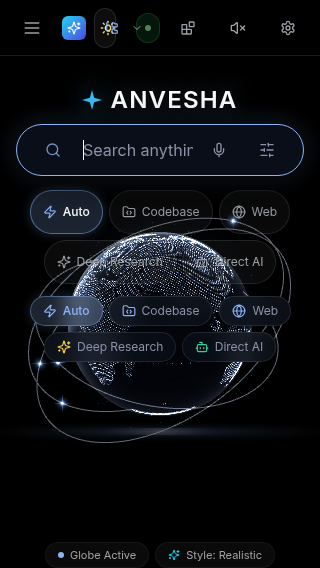
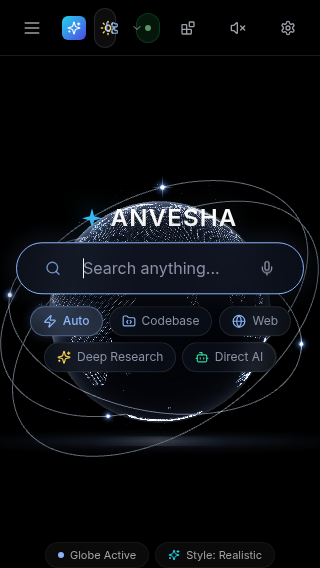
feat(mobile-composition): preserve desktop visual composition, alignment, hierarchy, and concentric globe relationship on mobile

diff --git a/frontend/src/components/SearchBar.tsx b/frontend/src/components/SearchBar.tsx
@@ -1,5 +1,5 @@
 import React, { useState, useEffect, useRef } from 'react';
-import { Search, Mic, MicOff, X, SlidersHorizontal, Zap, FolderCode, Globe, Sparkles, Bot, History, ArrowUpRight } from 'lucide-react';
+import { Search, Mic, MicOff, X, Zap, FolderCode, Globe, Sparkles, Bot, History, ArrowUpRight } from 'lucide-react';
 import { SearchMode } from '../types/api';
 import { fetchSearchSuggestions } from '../services/api';
 
@@ -27,7 +27,6 @@ export const SearchBar: React.FC<SearchBarProps> = ({
   const [isListening, setIsListening] = useState<boolean>(false);
   const [speechTranscript, setSpeechTranscript] = useState<string>('');
   const [voiceError, setVoiceError] = useState<string | null>(null);
-  const [isFilterOpen, setIsFilterOpen] = useState<boolean>(false);
   const [isFocused, setIsFocused] = useState<boolean>(false);
   const [suggestions, setSuggestions] = useState<string[]>([]);
   const [recentSearches, setRecentSearches] = useState<string[]>(() => {
@@ -266,21 +265,6 @@ export const SearchBar: React.FC<SearchBarProps> = ({
                 <Mic className="w-4 h-4 sm:w-5 sm:h-5" />
               )}
             </button>
-
-            {/* Filter / Scope Icon */}
-            <button
-              type="button"
-              onClick={() => setIsFilterOpen(!isFilterOpen)}
-              aria-label="Search Scope Filter"
-              title="Filter search scope"
-              className={`p-2 rounded-full transition-colors touch-target ${
-                isFilterOpen || searchMode !== 'auto'
-                  ? 'text-[#8ab4f8] bg-[#8ab4f8]/20'
-                  : 'text-[#8a93a6] hover:text-[#f8fafc] hover:bg-white/10'
-              }`}
-            >
-              <SlidersHorizontal className="w-4 h-4 sm:w-5 sm:h-5" />
-            </button>
           </div>
         </div>
 
@@ -356,38 +340,6 @@ export const SearchBar: React.FC<SearchBarProps> = ({
         )}
       </form>
 
-      {/* Search Mode Selection Pills (Google-style immediate intent routing) */}
-      <div className="mt-3.5 sm:mt-4 w-full flex items-center justify-center gap-1.5 sm:gap-2 flex-wrap pointer-events-auto px-1">
-        {[
-          { id: 'auto' as SearchMode, label: 'Auto', icon: Zap, activeColor: 'text-[#8ab4f8]' },
-          { id: 'code' as SearchMode, label: 'Codebase', icon: FolderCode, activeColor: 'text-[#8ab4f8]' },
-          { id: 'web' as SearchMode, label: 'Web', icon: Globe, activeColor: 'text-[#8ab4f8]' },
-          { id: 'deep' as SearchMode, label: 'Deep Research', icon: Sparkles, activeColor: 'text-amber-400' },
-          { id: 'direct' as SearchMode, label: 'Direct AI', icon: Bot, activeColor: 'text-emerald-400' },
-        ].map((m) => {
-          const isSelected = searchMode === m.id;
-          const Icon = m.icon;
-          return (
-            <button
-              key={m.id}
-              type="button"
-              onClick={() => {
-                setSearchMode(m.id);
-                setIsFilterOpen(false);
-              }}
-              className={`px-3 py-1.5 min-h-[38px] rounded-full text-xs font-sans transition-all flex items-center gap-1.5 border touch-target ${
-                isSelected
-                  ? 'bg-[#8ab4f8]/20 border-[#8ab4f8]/50 text-white font-medium shadow-[0_0_12px_rgba(138,180,248,0.25)]'
-                  : 'bg-white/[0.04] border-white/10 text-[#9aa0a6] hover:text-[#e8eaed] hover:bg-white/[0.08]'
-              }`}
-            >
-              <Icon className={`w-3.5 h-3.5 ${isSelected ? m.activeColor : 'text-[#9aa0a6]'}`} />
-              <span className="whitespace-nowrap">{m.label}</span>
-            </button>
-          );
-        })}
-      </div>
-
       {/* Voice Transcript / Error Toast */}
       {isListening && (
         <div className="mt-2.5 flex items-center justify-center gap-2 text-xs font-sans text-[#8ab4f8] animate-pulse">
@@ -400,70 +352,6 @@ export const SearchBar: React.FC<SearchBarProps> = ({
         <div className="mt-2.5 flex items-center justify-center gap-1.5 text-xs font-sans text-rose-300 bg-rose-950/40 py-1 px-3 rounded-full border border-rose-500/30">
           <MicOff className="w-3.5 h-3.5" />
           <span>{voiceError}</span>
-        </div>
-      )}
-
-      {/* Scope Selector Popover when Filter Icon is clicked */}
-      {isFilterOpen && (
-        <div className="absolute top-[60px] right-0 z-30 w-72 max-w-[calc(100vw-2rem)] bg-[#0c101a]/95 border border-white/10 backdrop-blur-2xl rounded-2xl shadow-[0_16px_40px_rgba(0,0,0,0.8),0_0_24px_rgba(138,180,248,0.08)] p-2 animate-fade-in text-xs font-sans">
-          <div className="px-2.5 py-1.5 text-[11px] font-medium uppercase tracking-wider text-[#8a93a6] border-b border-white/10 mb-1">
-            Search Mode
-          </div>
-          <button
-            type="button"
-            onClick={() => { setSearchMode('auto'); setIsFilterOpen(false); }}
-            className={`w-full flex items-center gap-2.5 px-3 py-2.5 min-h-[44px] rounded-xl text-left transition-colors ${searchMode === 'auto' ? 'bg-[#8ab4f8]/15 text-[#8ab4f8] font-medium' : 'text-[#f1f5f9] hover:bg-white/5'}`}
-          >
-            <Zap className="w-4 h-4 text-[#8ab4f8] shrink-0" />
-            <div>
-              <div className="font-semibold">Auto Route</div>
-              <div className="text-[11px] text-[#8a93a6]">Classifies intent automatically</div>
-            </div>
-          </button>
-          <button
-            type="button"
-            onClick={() => { setSearchMode('code'); setIsFilterOpen(false); }}
-            className={`w-full flex items-center gap-2.5 px-3 py-2.5 min-h-[44px] rounded-xl text-left transition-colors ${searchMode === 'code' ? 'bg-[#8ab4f8]/15 text-[#8ab4f8] font-medium' : 'text-[#f1f5f9] hover:bg-white/5'}`}
-          >
-            <FolderCode className="w-4 h-4 text-[#8ab4f8] shrink-0" />
-            <div>
-              <div className="font-semibold">Codebase</div>
-              <div className="text-[11px] text-[#8a93a6]">Indexed repository & AST symbols</div>
-            </div>
-          </button>
-          <button
-            type="button"
-            onClick={() => { setSearchMode('web'); setIsFilterOpen(false); }}
-            className={`w-full flex items-center gap-2.5 px-3 py-2.5 min-h-[44px] rounded-xl text-left transition-colors ${searchMode === 'web' ? 'bg-[#8ab4f8]/15 text-[#8ab4f8] font-medium' : 'text-[#f1f5f9] hover:bg-white/5'}`}
-          >
-            <Globe className="w-4 h-4 text-[#8ab4f8] shrink-0" />
-            <div>
-              <div className="font-semibold">Web Research</div>
-              <div className="text-[11px] text-[#8a93a6]">Live internet search & documentation</div>
-            </div>
-          </button>
-          <button
-            type="button"
-            onClick={() => { setSearchMode('deep'); setIsFilterOpen(false); }}
-            className={`w-full flex items-center gap-2.5 px-3 py-2.5 min-h-[44px] rounded-xl text-left transition-colors ${searchMode === 'deep' ? 'bg-amber-400/15 text-amber-300 font-medium' : 'text-[#f1f5f9] hover:bg-white/5'}`}
-          >
-            <Sparkles className="w-4 h-4 text-amber-300 shrink-0" />
-            <div>
-              <div className="font-semibold">Deep Research</div>
-              <div className="text-[11px] text-[#8a93a6]">Multi-step retrieval & synthesis</div>
-            </div>
-          </button>
-          <button
-            type="button"
-            onClick={() => { setSearchMode('direct'); setIsFilterOpen(false); }}
-            className={`w-full flex items-center gap-2.5 px-3 py-2.5 min-h-[44px] rounded-xl text-left transition-colors ${searchMode === 'direct' ? 'bg-emerald-400/15 text-emerald-300 font-medium' : 'text-[#f1f5f9] hover:bg-white/5'}`}
-          >
-            <Bot className="w-4 h-4 text-emerald-400 shrink-0" />
-            <div>
-              <div className="font-semibold">Direct AI</div>
-              <div className="text-[11px] text-[#8a93a6]">Pure model reasoning without live web retrieval</div>
-            </div>
-          </button>
         </div>
       )}
 

diff --git a/frontend/src/components/EarthGlobe.tsx b/frontend/src/components/EarthGlobe.tsx
@@ -211,15 +211,14 @@ export const EarthGlobe: React.FC<EarthGlobeProps> = ({
         }
       } else {
         // Mobile & Tablet: responsive viewport-aware camera calculation
-        // Keeps sphere scaled comfortably (~60% width on phones, max 240px) without covering search bar
+        // Keeps sphere scaled proportionally (~70% width on phones) perfectly concentric behind search stack
         const isPortrait = h > w;
         const targetPixelDiameter = isPortrait
-          ? Math.min(w * 0.62, Math.min(h * 0.35, 240))
-          : Math.min(h * 0.52, 260);
+          ? Math.min(w * 0.72, Math.min(h * 0.42, 290))
+          : Math.min(h * 0.58, 300);
         const halfFovRad = (fov / 2) * (Math.PI / 180);
         const zDist = (sphereRadius / Math.tan(halfFovRad)) * (h / Math.max(120, targetPixelDiameter));
-        const yOffset = isPortrait ? 0.32 : 0;
-        camera.position.set(0, yOffset, Math.max(7.8, Math.min(32.0, zDist)));
+        camera.position.set(0, 0, Math.max(7.8, Math.min(32.0, zDist)));
       }
       camera.aspect = w / h;
       camera.updateProjectionMatrix();

diff --git a/frontend/src/components/EarthGlobeV3.tsx b/frontend/src/components/EarthGlobeV3.tsx
@@ -195,12 +195,11 @@ export const EarthGlobeV3: React.FC<EarthGlobeV3Props> = ({
         // Mobile & Tablet: responsive viewport-aware camera calculation
         const isPortrait = h > w;
         const targetPixelDiameter = isPortrait
-          ? Math.min(w * 0.62, Math.min(h * 0.35, 240))
-          : Math.min(h * 0.52, 260);
+          ? Math.min(w * 0.72, Math.min(h * 0.42, 290))
+          : Math.min(h * 0.58, 300);
         const halfFovRad = (fov / 2) * (Math.PI / 180);
         const zDist = (sphereRadius / Math.tan(halfFovRad)) * (h / Math.max(120, targetPixelDiameter));
-        const yOffset = isPortrait ? 0.32 : 0;
-        camera.position.set(0, yOffset, Math.max(7.8, Math.min(32.0, zDist)));
+        camera.position.set(0, 0, Math.max(7.8, Math.min(32.0, zDist)));
       }
       camera.aspect = w / h;
       camera.updateProjectionMatrix();

diff --git a/frontend/src/components/EarthGlobeV4.tsx b/frontend/src/components/EarthGlobeV4.tsx
@@ -157,12 +157,11 @@ export const EarthGlobeV4: React.FC<EarthGlobeV4Props> = ({
         // Mobile & Tablet: responsive viewport-aware camera calculation
         const isPortrait = h > w;
         const targetPixelDiameter = isPortrait
-          ? Math.min(w * 0.62, Math.min(h * 0.35, 240))
-          : Math.min(h * 0.52, 260);
+          ? Math.min(w * 0.72, Math.min(h * 0.42, 290))
+          : Math.min(h * 0.58, 300);
         const halfFovRad = (fov / 2) * (Math.PI / 180);
         const zDist = (sphereRadius / Math.tan(halfFovRad)) * (h / Math.max(120, targetPixelDiameter));
-        const yOffset = isPortrait ? 0.32 : 0;
-        camera.position.set(0, yOffset, Math.max(7.8, Math.min(32.0, zDist)));
+        camera.position.set(0, 0, Math.max(7.8, Math.min(32.0, zDist)));
       }
       camera.aspect = w / h;
       camera.updateProjectionMatrix();

diff --git a/frontend/src/components/SearchHomepage.tsx b/frontend/src/components/SearchHomepage.tsx
@@ -108,7 +108,7 @@ export const SearchHomepage: React.FC<SearchHomepageProps> = ({
       />
 
       {/* Centered Integrated Stack: Wordmark in Visual Center of Globe, Search Bar directly beneath */}
-      <main className="relative z-20 flex-1 flex flex-col items-center justify-start pt-8 xs:pt-10 sm:pt-14 lg:justify-center lg:pt-0 px-4 sm:px-6 pointer-events-none">
+      <main className="relative z-20 flex-1 flex flex-col items-center justify-center px-4 sm:px-6 pointer-events-none -translate-y-[2%] sm:-translate-y-[3%]">
         {/* ANVESHA Brand Wordmark (Clean Centered Display) */}
         <div className="text-center mb-3 sm:mb-6 pointer-events-auto flex items-center justify-center gap-2 sm:gap-3">
           {/* Sparkle 4-point star icon */}
